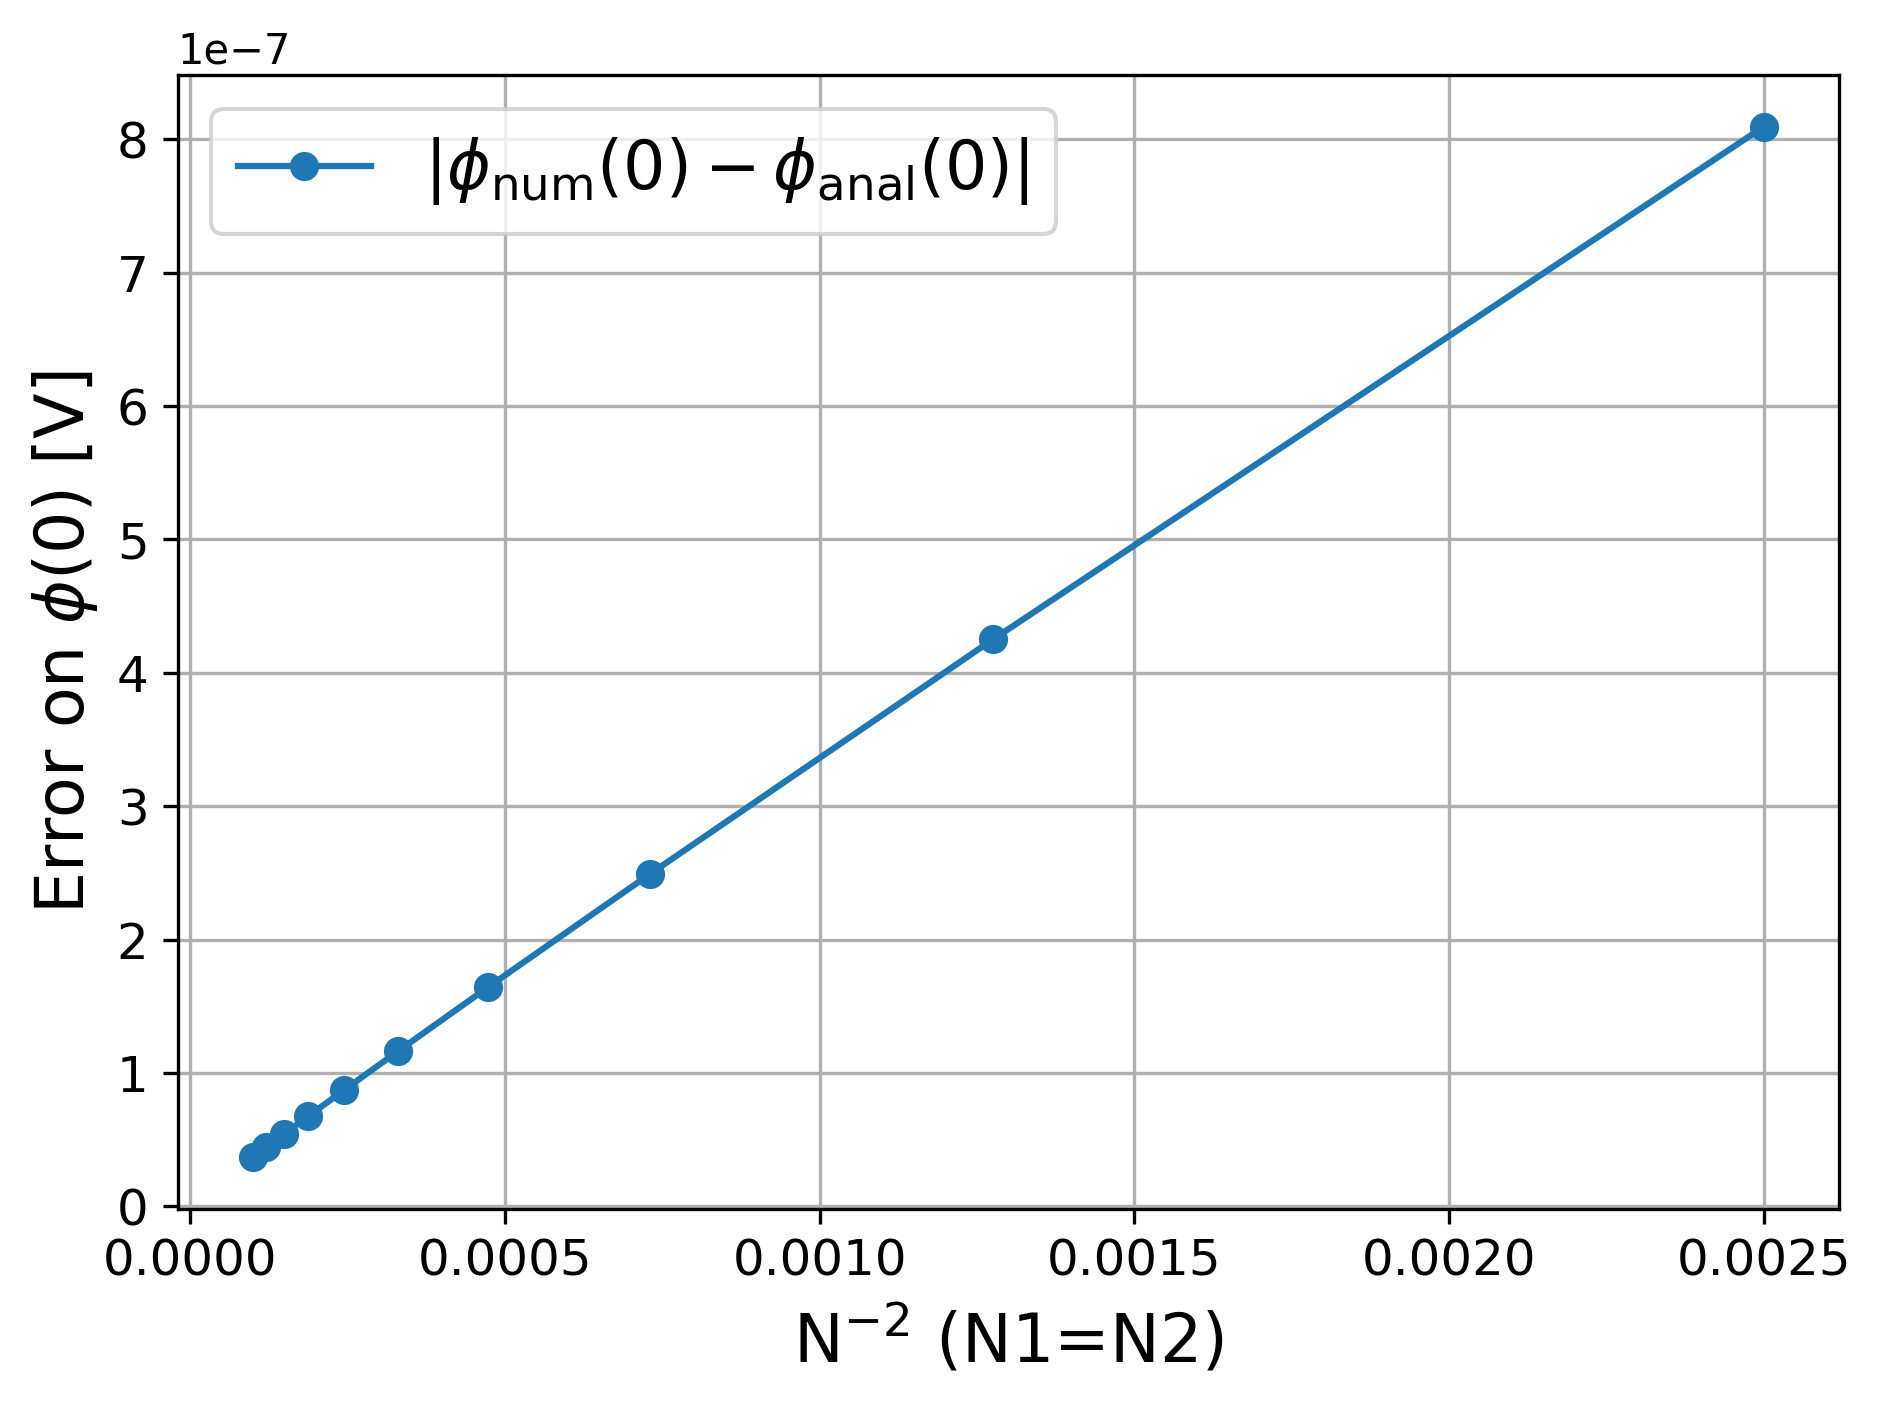
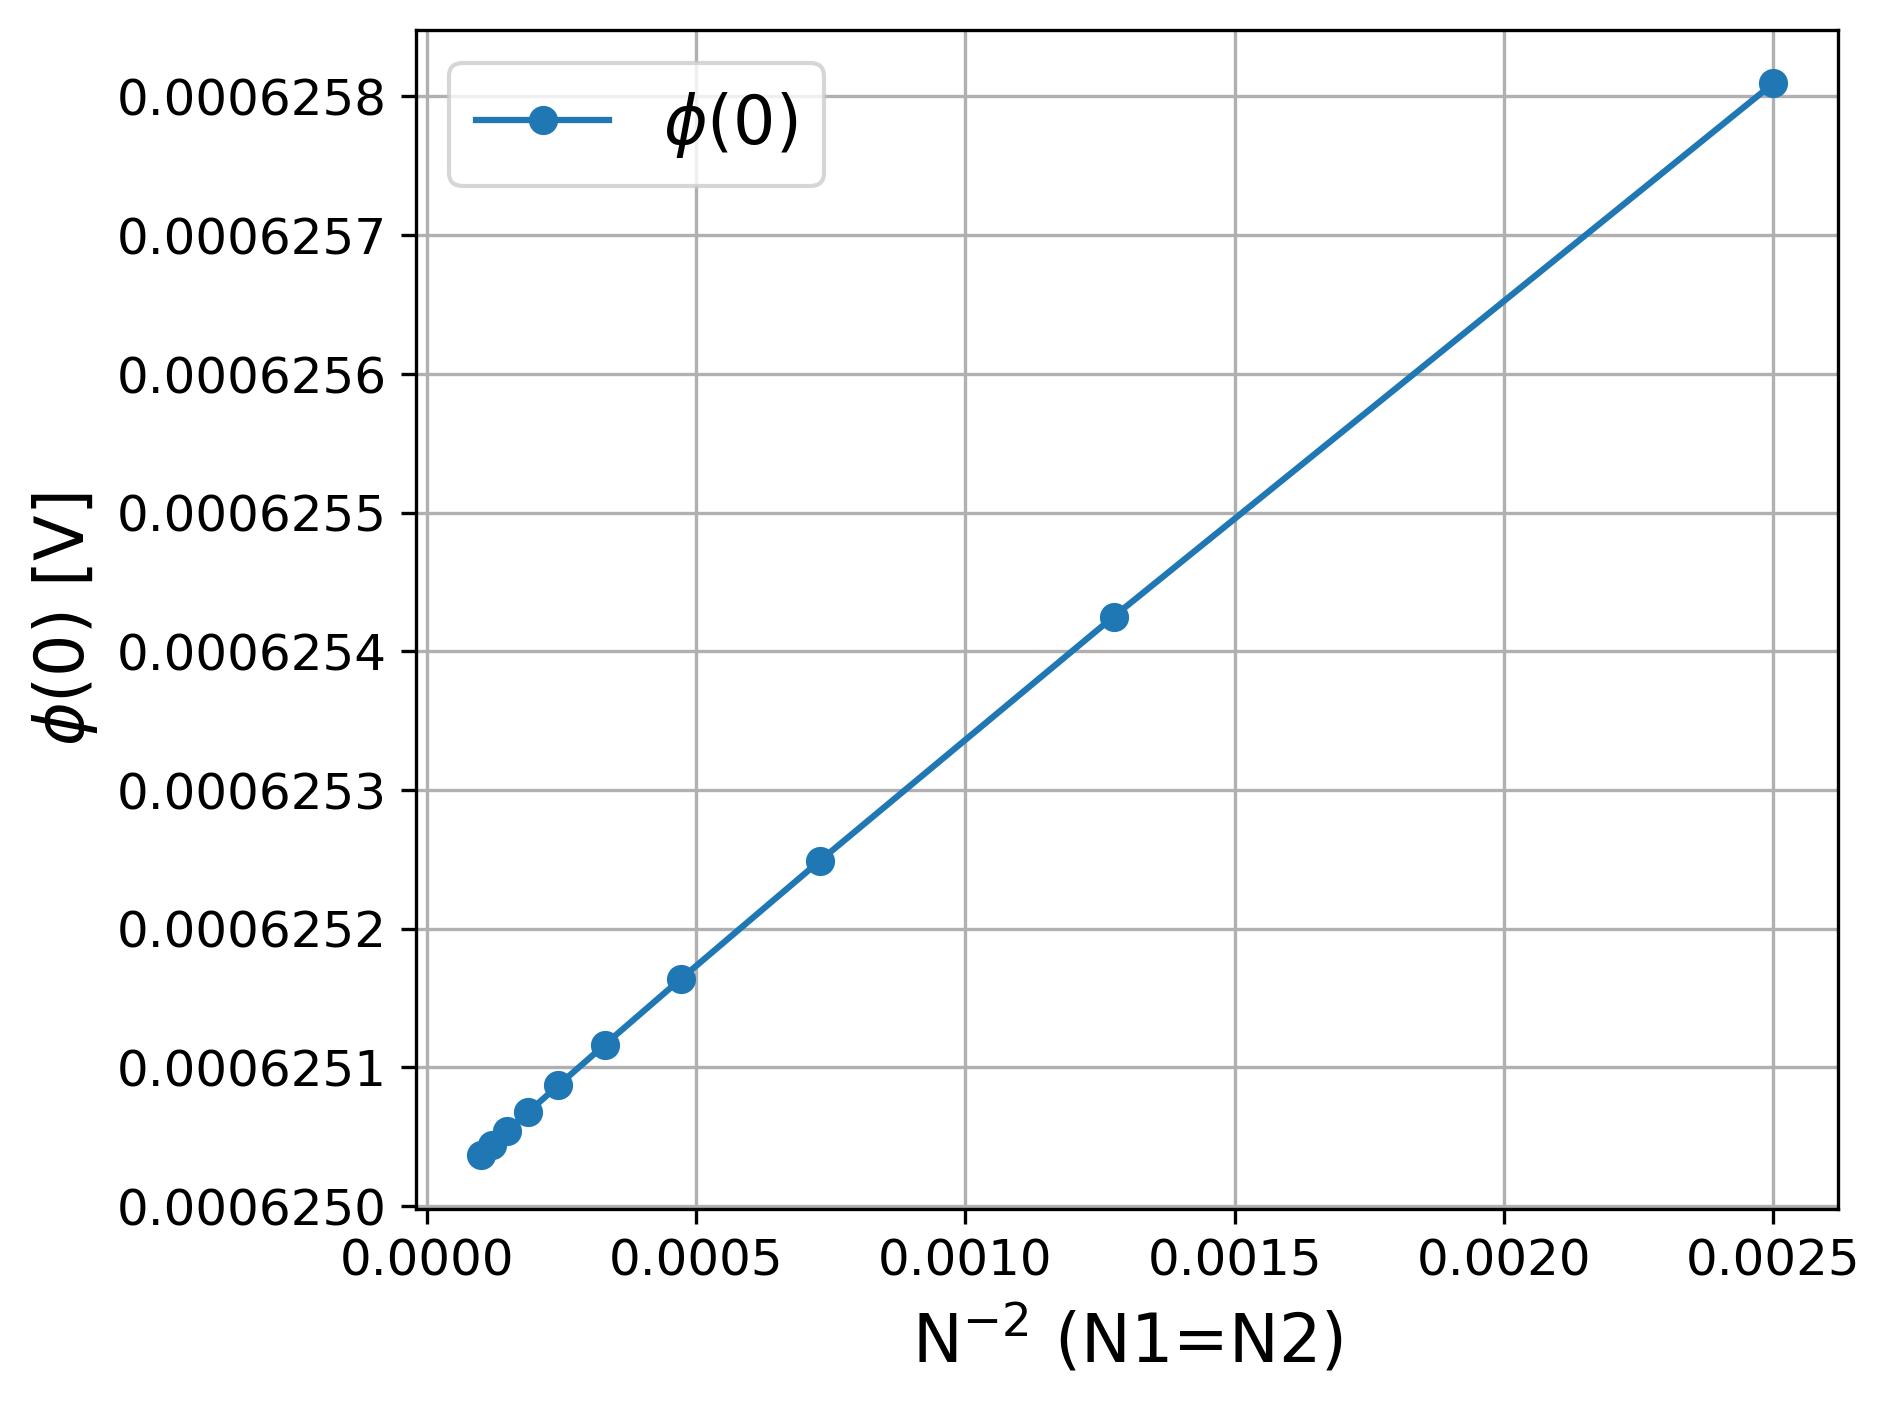
j'arrive pas

diff --git a/questionc.py b/questionc.py
@@ -37,10 +37,25 @@ def compute_div_D(r_D, D):
 def rho_lib_function(r_vals, rho0, r1):
     return np.where(r_vals < r1, rho0 * np.sin(np.pi * r_vals / r1)*epsilon_0, 0)
 
+def compute_div_E(r_E, E):
+    rE = r_E * E  # r * E
+
+    # Derivative of rE with respect to r (centered difference)
+    drE = (rE[2:] - rE[:-2]) / (r_E[2:] - r_E[:-2])
+
+    # Mid-middles of r for plotting (size N-2)
+    r_midmid = 0.5 * (r_E[2:] + r_E[:-2])
+
+    # Divergence of E
+    div_E = drE / r_midmid
+
+    return r_midmid, div_E
+
+
 r_midmid, div_D = compute_div_D(r_D, D)
 rho_lib = rho_lib_function(r_midmid, rho0, r1)
 
-
+'''
 plt.figure()
 plt.plot(r_midmid, div_D, marker='o', label=fr"$\nabla \cdot \vec{{D}}$ (N1={N1}, N2={N2})", color='blue')
 plt.xlabel(r'r [m]',fontsize=16)
@@ -95,25 +110,30 @@ plt.legend(fontsize=14)
 plt.tight_layout()
 fct.save_figure("erreur_divD_rho.png")
 plt.show()
-
-
-
-
-
-
+'''
 
 
 
 
 
 #Charges
+r_midmid_E, div_E = compute_div_E(r_E, E)
 
-#Total free charge
-L = 1.0
-h = r_D[1:] - r_D[:-1]
-Q_lib = np.sum(rho_lib * r_D * h) * 2 * np.pi * L
-print(f"Q_lib (charge libre totale) = {Q_lib:.4e} C")
+h_D = r_D[1:] - r_D[:-1]
+h_midmid = r_midmid[1:] - r_midmid[:-1]
+h_E = r_E[1:] - r_E[:-1]
 
-#Total charge 
-Q_tot = D[-1] * 2 * np.pi * R * L
-print(f"Q_tot (charge totale) = {Q_tot:.4e} C")
+#Free charges 
+Q_lib = 2 * np.pi * np.dot(D[1:] * r_D[1:], h_D) 
+print(f"Q_lib = {Q_lib} C")
+Q_lib_analytique = 2 * np.pi * epsilon_0 * np.dot(rho_lib[:-1] * r_midmid[:-1], h_midmid)
+print(f"Q_lib_analytique = {Q_lib_analytique} C")
+
+#Total charges
+Q_total = 2*epsilon_0*np.pi*np.dot(E[1:] * r_E[1:], h_E)
+print(f"Q_total = {Q_total} C")
+
+#Polarization charges
+i_r1 = np.argmin(np.abs(r_D - r1)) 
+rho_pol = epsilon_0*div_E[i_r1]-div_D[i_r1]
+print(f"rho_pol = {rho_pol} C/m^3")

diff --git a/questiona.py b/questiona.py
@@ -64,6 +64,7 @@ plt.show()
 
 #Convergence study
 errors = []
+init_phi = []
 N_values = []
 dts = []
 dts_squared = []
@@ -72,6 +73,7 @@ phi_anal_0 = 0.25 * (R**2)
 for phi_file, E_file, D_file, param_set in zip(phi_outputs, E_outputs, D_outputs, param_sets):
     r, phi = fct.read_output_file_phi(phi_file)
     phi_0 = phi[0]
+    init_phi.append(phi_0)
     error = np.abs(phi_0 - phi_anal_0)
     errors.append(error)
     N_values.append(param_set["N1"])
@@ -79,9 +81,9 @@ for phi_file, E_file, D_file, param_set in zip(phi_outputs, E_outputs, D_outputs
     dts_squared.append(1/(param_set["N1"]**2))
 
 plt.figure()
-plt.plot(dts_squared, errors, 'o-', label=r"$|\phi_\mathrm{num}(0) - \phi_\mathrm{anal}(0)|$")
+plt.plot(dts_squared, init_phi, 'o-', label=r"$\phi(0)$")
 plt.xlabel(r"N$^{-2}$ (N1=N2)", fontsize=16)
-plt.ylabel(r"Error on $\phi(0)$ [V]", fontsize=16)
+plt.ylabel(r"$\phi(0)$ [V]", fontsize=16)
 plt.xticks(fontsize=12)
 plt.yticks(fontsize=12)
 plt.grid(True)
@@ -101,7 +103,6 @@ plt.ylabel(r"Error on $\phi(0)$ [V]", fontsize=16)
 plt.xticks(fontsize=12)
 plt.yticks(fontsize=12)
 plt.grid(True)
-#plt.grid(True, which="both", ls="--", linewidth=0.5)
 plt.legend(fontsize=16)
 plt.tight_layout()
 fct.save_figure("convergence_phi0_N.png")
